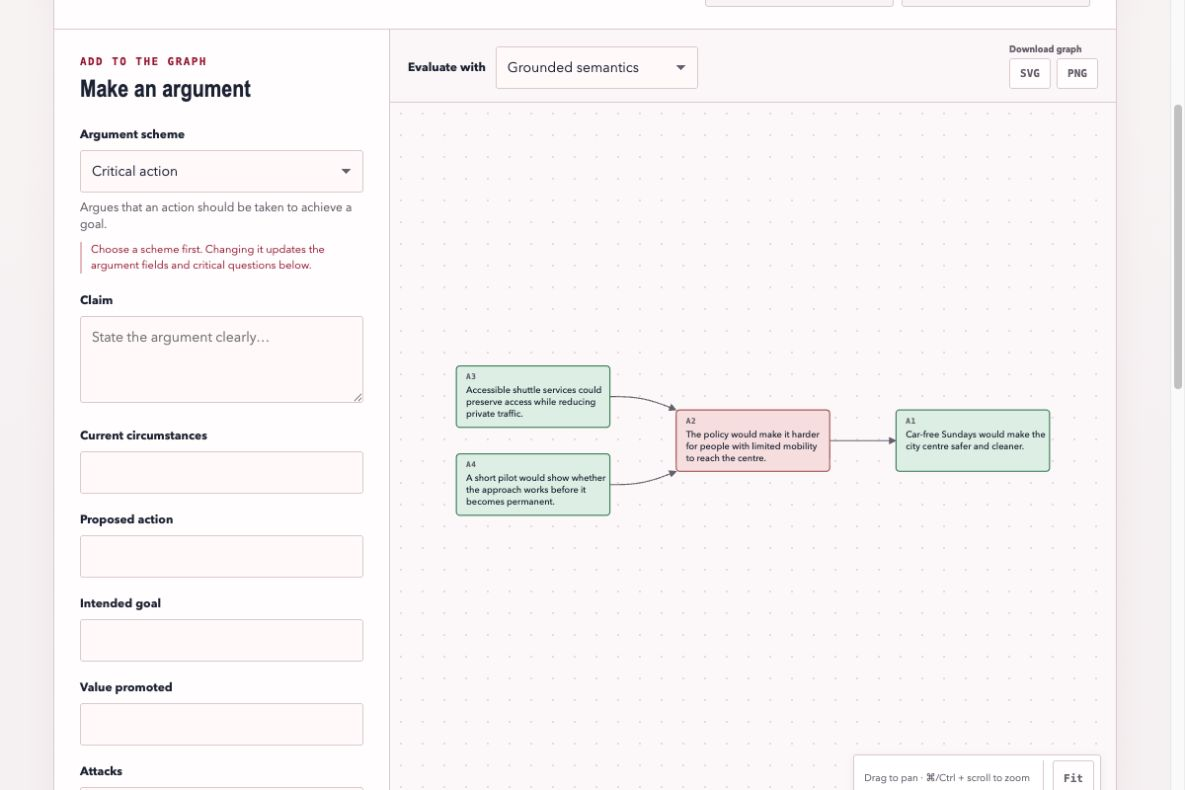
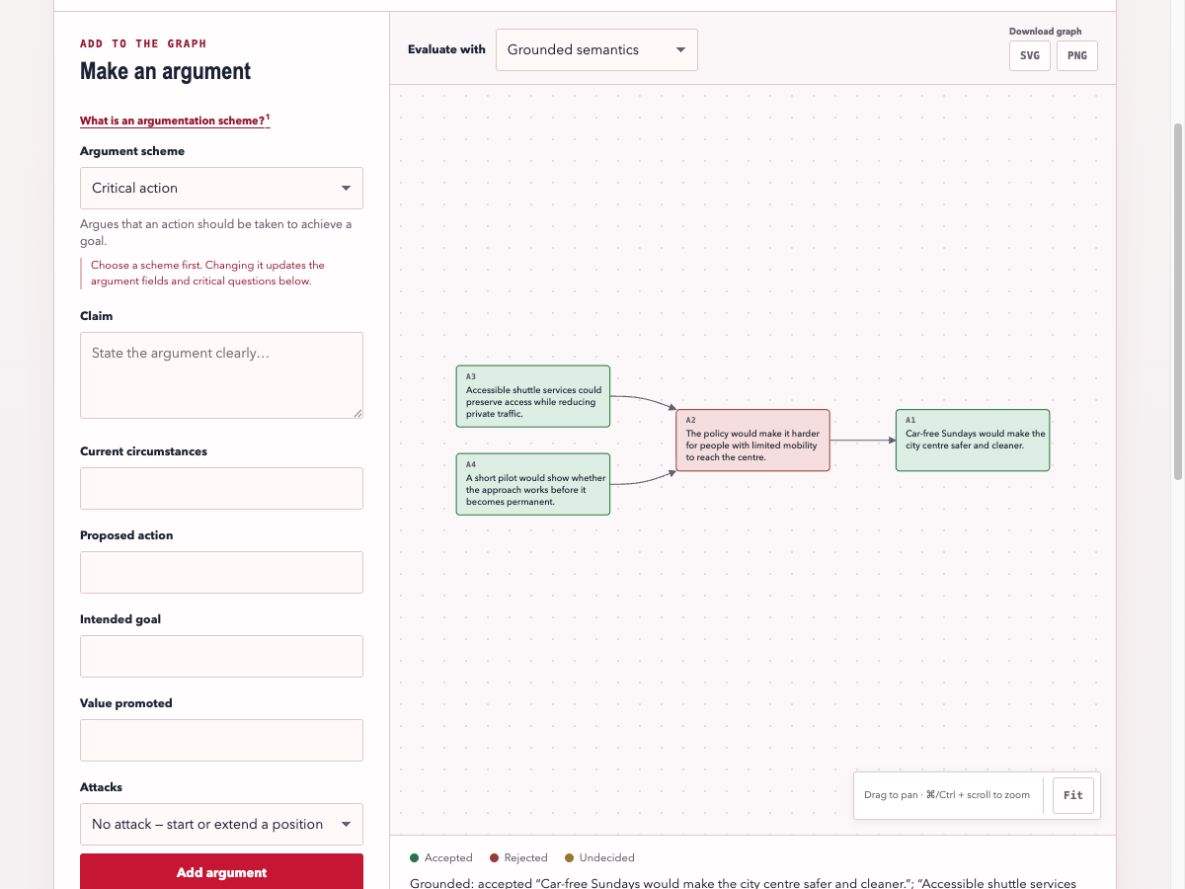
Place scheme guide beside the form

diff --git a/src/styles.css b/src/styles.css
@@ -71,6 +71,9 @@ a:hover { color: var(--red); }
 .composer { border-right: 1px solid var(--line); }
 .panel-heading h3 { margin: 0 0 24px; font: 750 24px/1.1 var(--display); }
 .panel-heading .section-label { margin-bottom: 8px; }
+.scheme-guide-link { display: inline-block; margin-bottom: 2px; color: var(--red-dark); font-size: 11px; font-weight: 650; }
+.scheme-guide-link sup { margin-left: 1px; font-size: .72em; text-decoration: none; }
+.scheme-guide-link + label { margin-top: 10px; }
 label { display: block; color: var(--ink); font-size: 12px; font-weight: 700; margin: 17px 0 7px; }
 textarea, input:not([type="checkbox"]), select { width: 100%; color: var(--ink); background: #fff9fa; border: 1px solid var(--line); border-radius: 3px; padding: 10px 11px; font-size: 14px; }
 textarea { resize: vertical; min-height: 88px; }

diff --git a/index.html b/index.html
@@ -67,6 +67,7 @@
               <h3 id="composer-title">Make an argument</h3>
             </div>
             <form id="argument-form">
+              <a class="scheme-guide-link" href="#argumentation-schemes">What is an argumentation scheme?<sup>1</sup></a>
               <label for="scheme">Argument scheme</label>
               <select id="scheme" name="scheme" required></select>
               <p class="field-help" id="scheme-help"></p>
